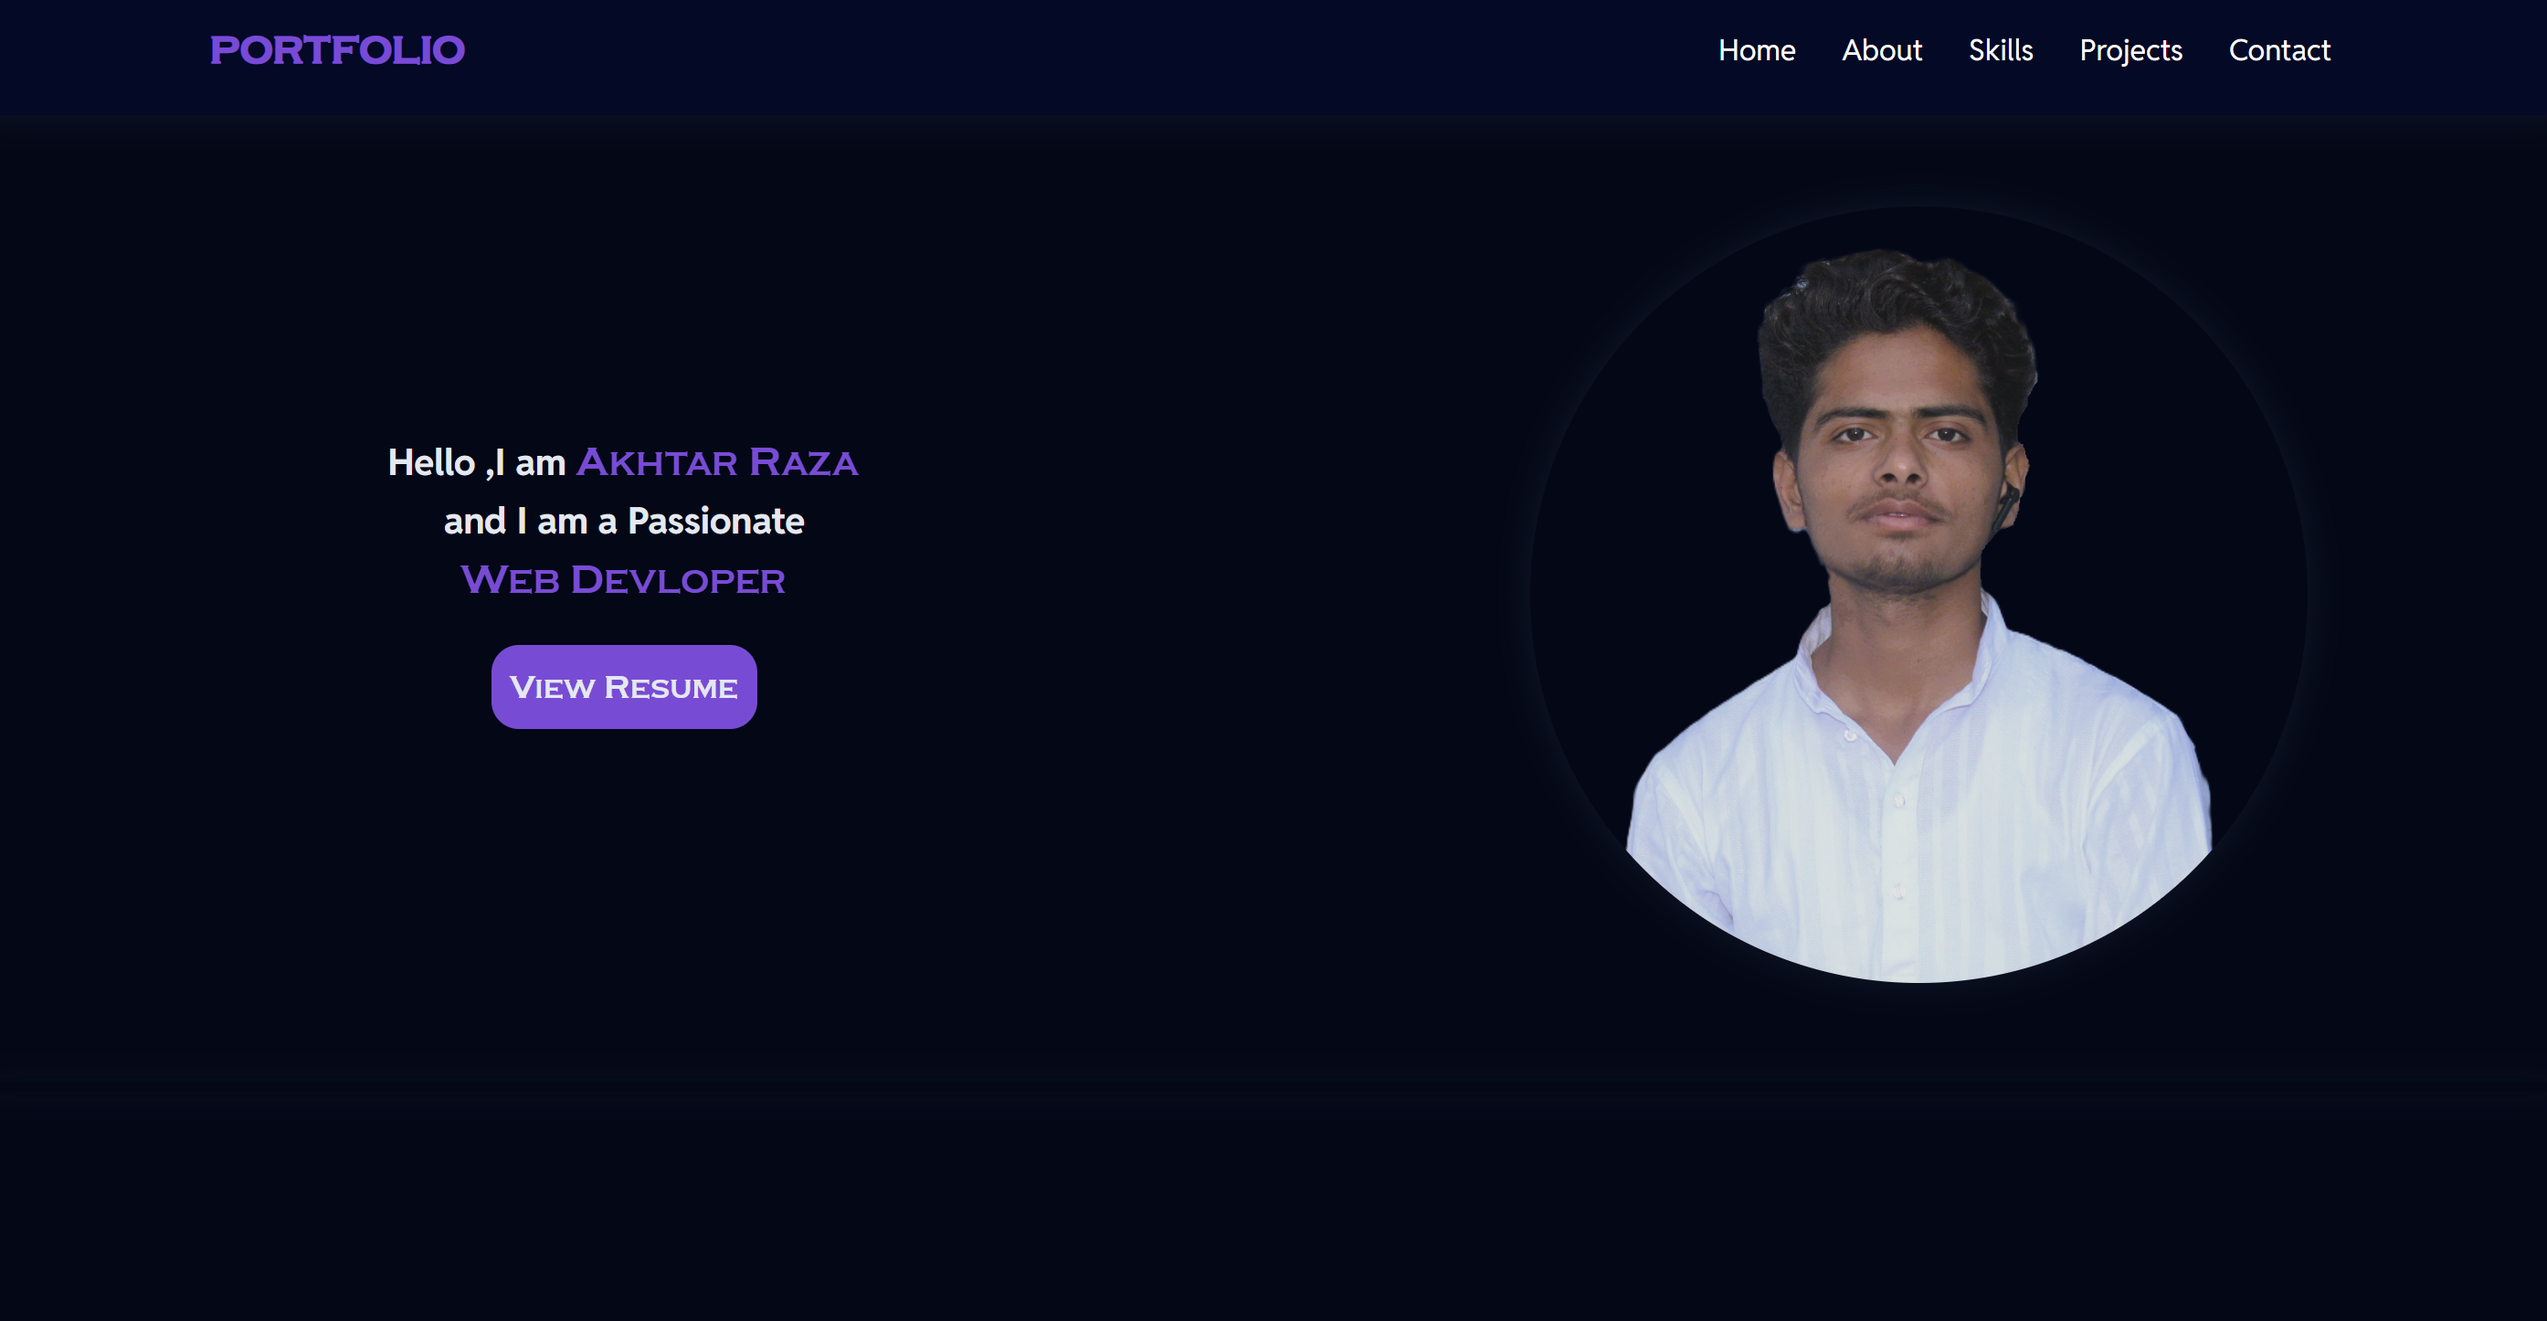
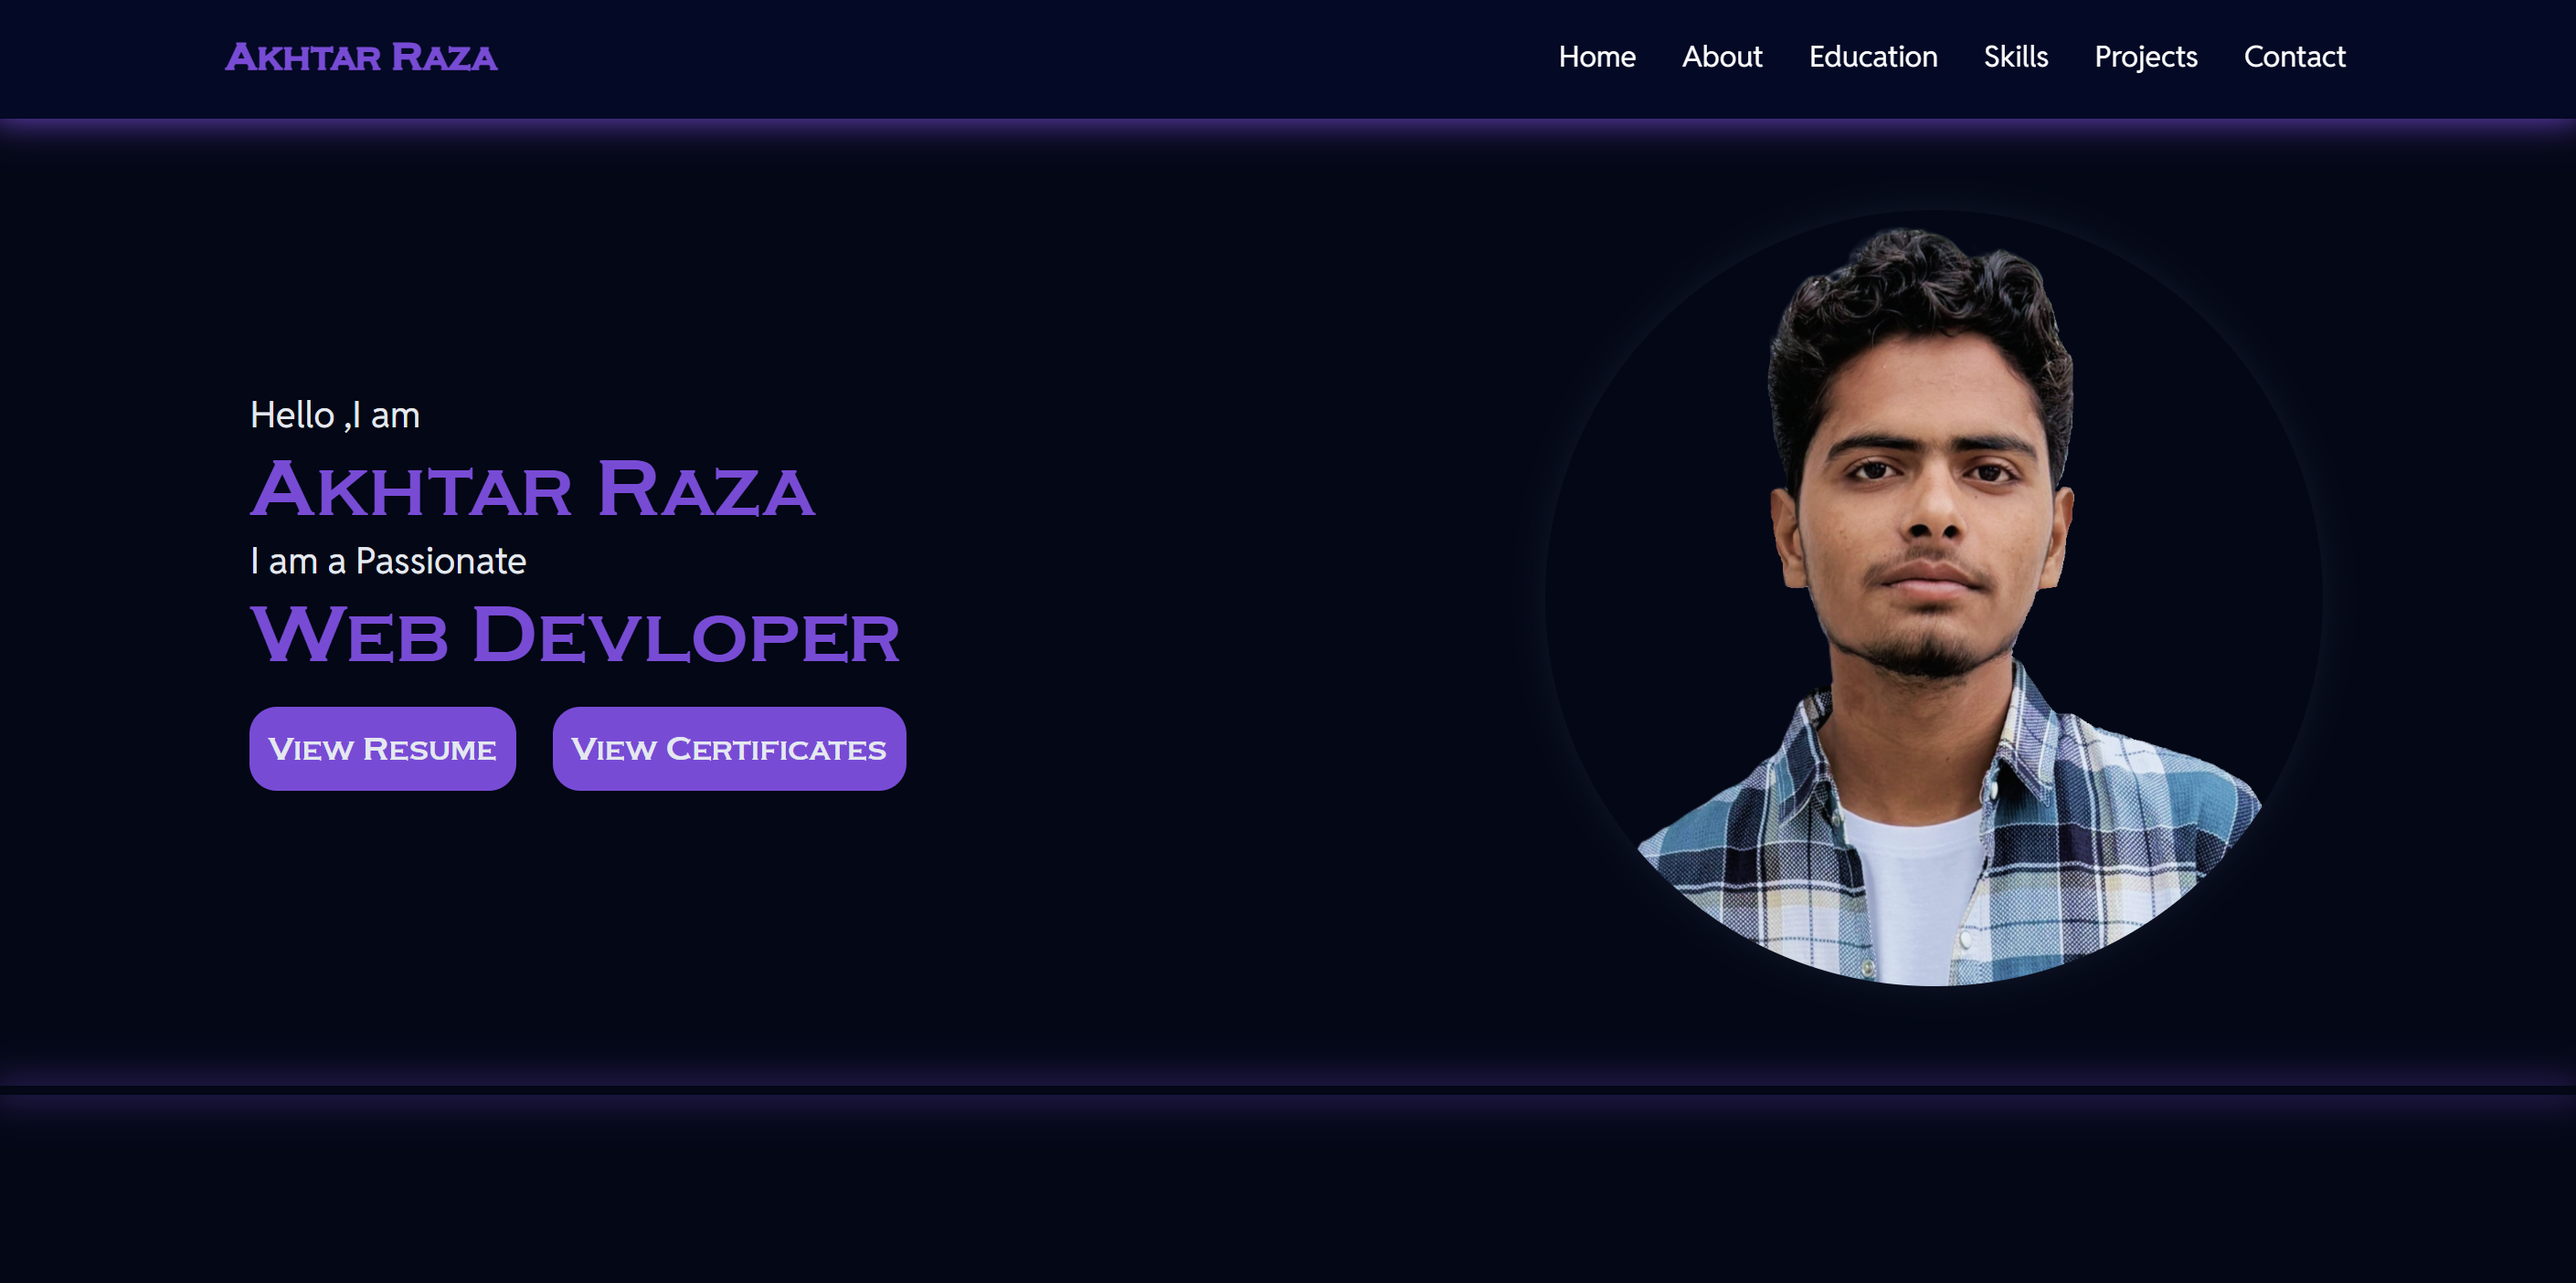
download resume option added

diff --git a/index.html b/index.html
@@ -4,7 +4,7 @@
 <head>
   <meta charset="UTF-8">
   <meta name="viewport" content="width=device-width, initial-scale=1.0">
-  <title>My Portfolio</title>
+  <title>Portfolio | Akhtar Raza</title>
   <link rel="shortcut icon" href="icon.ico" type="image/x-icon">
   <link rel="stylesheet" href="Css/style.css">
   <link rel="stylesheet" href="Css/responsive.css">
@@ -44,11 +44,41 @@
           <div class="viewResumeButton">
             <button>View Resume</button>
           </div>
+          
           <div class="viewCertificatesButton">
             <button>View Certificates</button>
           </div>
         </div>
       </div>
+
+      <div class="lightbox">
+        <div class="certificates hide">
+
+          <img src="Assets/Certificates/HTML.png" alt="">
+          <img src="Assets/Certificates/CSS.png" alt="">
+          <img src="Assets/Certificates/JS.png" alt="">
+        </div>
+
+        <div id="lightBox">
+          <div class="close">
+            <img width="40px" src="Assets/close.svg" alt="">
+          </div>
+          <div class="previous">
+            <img width="40px" src="Assets/previous.svg" alt="">
+          </div>
+          <div class="hide lightBoxResume">
+            <iframe src="Assets/Resume/resume.pdf#zoom=page-fit" frameborder="0"></iframe>
+            <a href="Assets/Resume/resume.pdf" download="Akhtar_Raza_Resume.pdf">Download Resume</a>
+          </div>
+          <div class="hide lightBoxCertificates">
+            <img src="" alt="">
+          </div>
+          <div class="next">
+            <img width="40px" src="Assets/next.svg" alt="">
+          </div>
+        </div>
+      </div>
+
 
 
       <div class="firstSectionRight">
@@ -131,14 +161,14 @@
             <img src="Assets/css.svg" alt="">
           </div>
           <div class="skill-card">
-          <div class="skill-info">
-            <span>CSS</span>
-            <span>70%</span>
+            <div class="skill-info">
+              <span>CSS</span>
+              <span>70%</span>
+            </div>
+            <div class="progress">
+              <div class="progress-bar css"></div>
+            </div>
           </div>
-          <div class="progress">
-            <div class="progress-bar css"></div>
-          </div>
-        </div>
         </div>
         <div class="skill-parentCard">
           <div class="skill-img">
@@ -146,51 +176,51 @@
           </div>
           <div class="skill-card">
 
-          <div class="skill-info">
-            <span>JavaScript</span>
-            <span>40%</span>
+            <div class="skill-info">
+              <span>JavaScript</span>
+              <span>40%</span>
+            </div>
+            <div class="progress">
+              <div class="progress-bar js"></div>
+            </div>
           </div>
-          <div class="progress">
-            <div class="progress-bar js"></div>
-          </div>
-        </div>
 
         </div>
         <div class="skill-parentCard">
           <div class="skill-img">
             <img src="Assets/java.svg" alt="">
           </div>
-         <div class="skill-card">
-          <div class="skill-info">
-            <span>Java</span>
-            <span>50%</span>
+          <div class="skill-card">
+            <div class="skill-info">
+              <span>Java</span>
+              <span>50%</span>
+            </div>
+            <div class="progress">
+              <div class="progress-bar java"></div>
+            </div>
           </div>
-          <div class="progress">
-            <div class="progress-bar java"></div>
-          </div>
-        </div>
         </div>
         <div class="skill-parentCard">
           <div class="skill-img">
             <img src="Assets/python.svg" alt="">
           </div>
           <div class="skill-card">
-          <div class="skill-info">
-            <span>Python</span>
-            <span>40%</span>
+            <div class="skill-info">
+              <span>Python</span>
+              <span>40%</span>
+            </div>
+            <div class="progress">
+              <div class="progress-bar python"></div>
+            </div>
           </div>
-          <div class="progress">
-            <div class="progress-bar python"></div>
-          </div>
+
         </div>
 
-        </div>
 
-        
-        
-        
 
-        
+
+
+
       </div>
     </section>
     <hr>
@@ -423,32 +453,6 @@
 
     </section>
 
-    <div class="lightbox">
-      <div class="certificates hide">
-
-        <img src="Assets/Certificates/HTML.png" alt="">
-        <img src="Assets/Certificates/CSS.png" alt="">
-        <img src="Assets/Certificates/JS.png" alt="">
-      </div>
-
-      <div id="lightBox">
-        <div class="close">
-          <img width="40px" src="Assets/close.svg" alt="">
-        </div>
-        <div class="previous">
-          <img width="40px" src="Assets/previous.svg" alt="">
-        </div>
-        <div class="hide lightBoxResume">
-          <iframe src="Assets/Resume/resume.pdf#zoom=page-fit" frameborder="0"></iframe>
-        </div>
-        <div class="hide lightBoxCertificates">
-          <img src="" alt="">
-        </div>
-        <div class="next">
-          <img width="40px" src="Assets/next.svg" alt="">
-        </div>
-      </div>
-    </div>
 
     <footer>
 

diff --git a/Css/style.css b/Css/style.css
@@ -178,6 +178,95 @@ section {
     transform: scale(0.90);
 }
 
+
+#lightBox {
+    position: fixed;
+    left: 0;
+    top: 0;
+    width: 100dvw;
+    height: 100dvh;
+    background: rgba(0, 0, 0, 0.9);
+    justify-content: center;
+    align-items: center;
+    display: none;
+}
+
+
+.close {
+    position: absolute;
+    top: 10px;
+    right: 10px;
+    cursor: pointer;
+    z-index: 1000;
+}
+
+.previous {
+    position: absolute;
+    top: 46%;
+    left: 10px;
+    cursor: pointer;
+    z-index: 100;
+}
+
+.lightBoxResume,
+.lightBoxCertificates {
+    width: 90%;
+    height: 95%;
+    display: flex;
+    flex-direction: column;
+    justify-content: center;
+    align-items: center;
+
+}
+
+
+.lightBoxResume iframe {
+    width: 100%;
+    height: 100%;
+    border-radius: 10px;
+
+}
+.lightBoxResume a{
+     text-decoration: none;
+    background-color: var(--primary);
+    color: var(--text);
+    cursor: pointer;
+    font-size: 20px;
+    margin: 20px 0px;
+    padding: 10px;
+    border-radius: 15px;
+    margin-bottom: -10px;
+    font-family: "Montenegrin Gothic One", serif;
+    transition: all 0.5s ease;
+   
+}
+.lightBoxResume a:hover{
+    color: var(--dark);
+    box-shadow: 0 0 20px var(--gray);
+}
+.lightBoxResume a:active{
+    transform: scale(0.90);
+}
+
+.lightBoxCertificates img {
+    width: 80%;
+
+    transition: all 2s ease;
+}
+
+.hide {
+    display: none;
+}
+
+.next {
+    position: absolute;
+    top: 46%;
+    right: 10px;
+    cursor: pointer;
+    z-index: 100;
+}
+
+
 .firstSectionRight {
     width: 30%;
 
@@ -680,70 +769,6 @@ section {
   z-index: 100;
 }
 
-#lightBox {
-    position: fixed;
-    left: 0;
-    top: 0;
-    width: 100dvw;
-    height: 100dvh;
-    background: rgba(0, 0, 0, 0.9);
-    justify-content: center;
-    align-items: center;
-    display: none;
-}
-
-
-.close {
-    position: absolute;
-    top: 10px;
-    right: 10px;
-    cursor: pointer;
-    z-index: 1000;
-}
-
-.previous {
-    position: absolute;
-    top: 46%;
-    left: 10px;
-    cursor: pointer;
-    z-index: 100;
-}
-
-.lightBoxResume,
-.lightBoxCertificates {
-    width: 90%;
-    height: 90%;
-    display: flex;
-    justify-content: center;
-    align-items: center;
-
-}
-
-
-.lightBoxResume iframe {
-    width: 100%;
-    height: 100%;
-    border-radius: 10px;
-
-}
-
-.lightBoxCertificates img {
-    width: 80%;
-
-    transition: all 2s ease;
-}
-
-.hide {
-    display: none;
-}
-
-.next {
-    position: absolute;
-    top: 46%;
-    right: 10px;
-    cursor: pointer;
-    z-index: 100;
-}
 
 footer {
 
